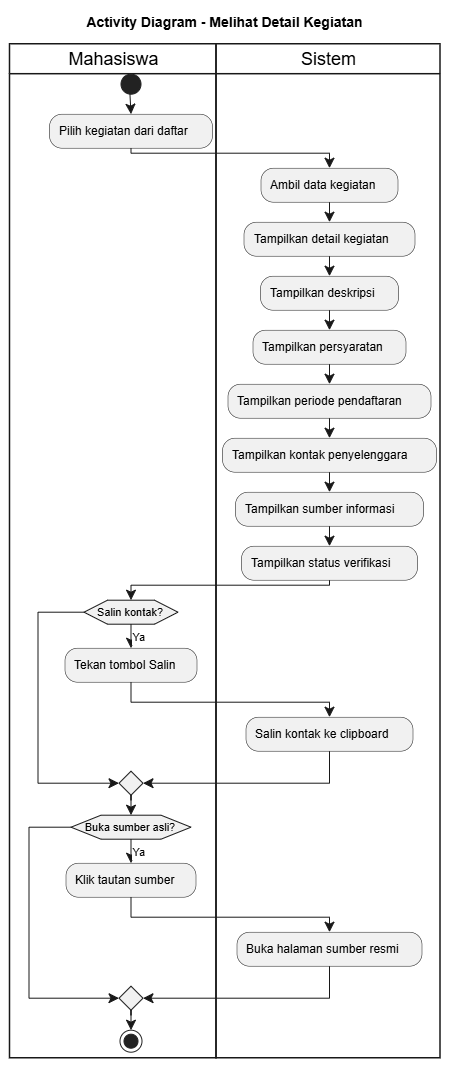
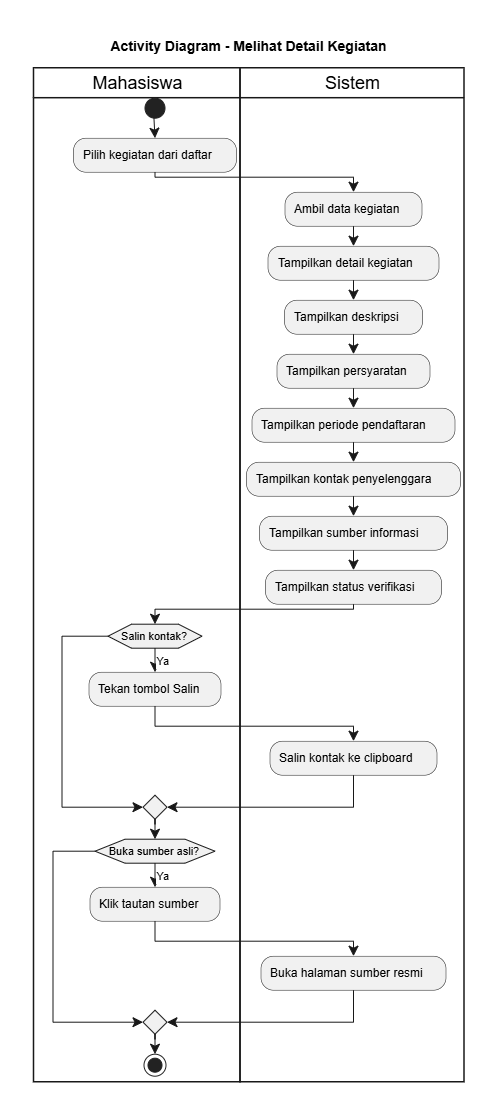
Ganti diagram UML sesuai laporan Kelompok 5

Changed region(s): [[0.031, 0.0, 0.9933, 1.0], [0.0, 0.0309, 0.031, 0.9888]]

diff --git a/README.md b/README.md
@@ -110,15 +110,16 @@ Satu tempat untuk info lomba, seminar, workshop, beasiswa, kepanitiaan, dan volu
 
 ## Diagram UML
 
+Diagram Use Case, ERD, Activity, dan Sequence di bawah ini sama dengan yang tercantum di laporan Kelompok 5 (dibuat dengan draw.io).
+
 ### Use Case Diagram
-<p align="center"><img src="assets/uml/use-case.png" alt="Use Case Diagram PINTAR" width="100%"></p>
+<p align="center"><img src="assets/uml/use-case.png" alt="Use Case Diagram PINTAR" width="60%"></p>
 
 ### Class Diagram
 Nama atribut dan operasi sama dengan model di `app/Models`.
 <p align="center"><img src="assets/uml/class-diagram.png" alt="Class Diagram PINTAR" width="90%"></p>
 
 ### Entity Relationship Diagram (ERD)
-Sesuai tabel di `database/migrations`.
 <p align="center"><img src="assets/uml/erd.png" alt="ERD PINTAR" width="80%"></p>
 
 ### Activity & Sequence Diagram
@@ -141,7 +142,7 @@ Sesuai tabel di `database/migrations`.
 <p align="center"><img src="assets/uml/activity/activity-uc03.png" alt="Activity Diagram UC03" width="48%"> <img src="assets/uml/sequence/sequence-uc03.png" alt="Sequence Diagram UC03" width="48%"></p>
 </details>
 
-Kode PlantUML untuk Use Case, Class, dan ERD ada di `assets/uml/*.puml`.
+Kode PlantUML untuk Class Diagram ada di `assets/uml/class-diagram.puml`.
 
 ---
 
